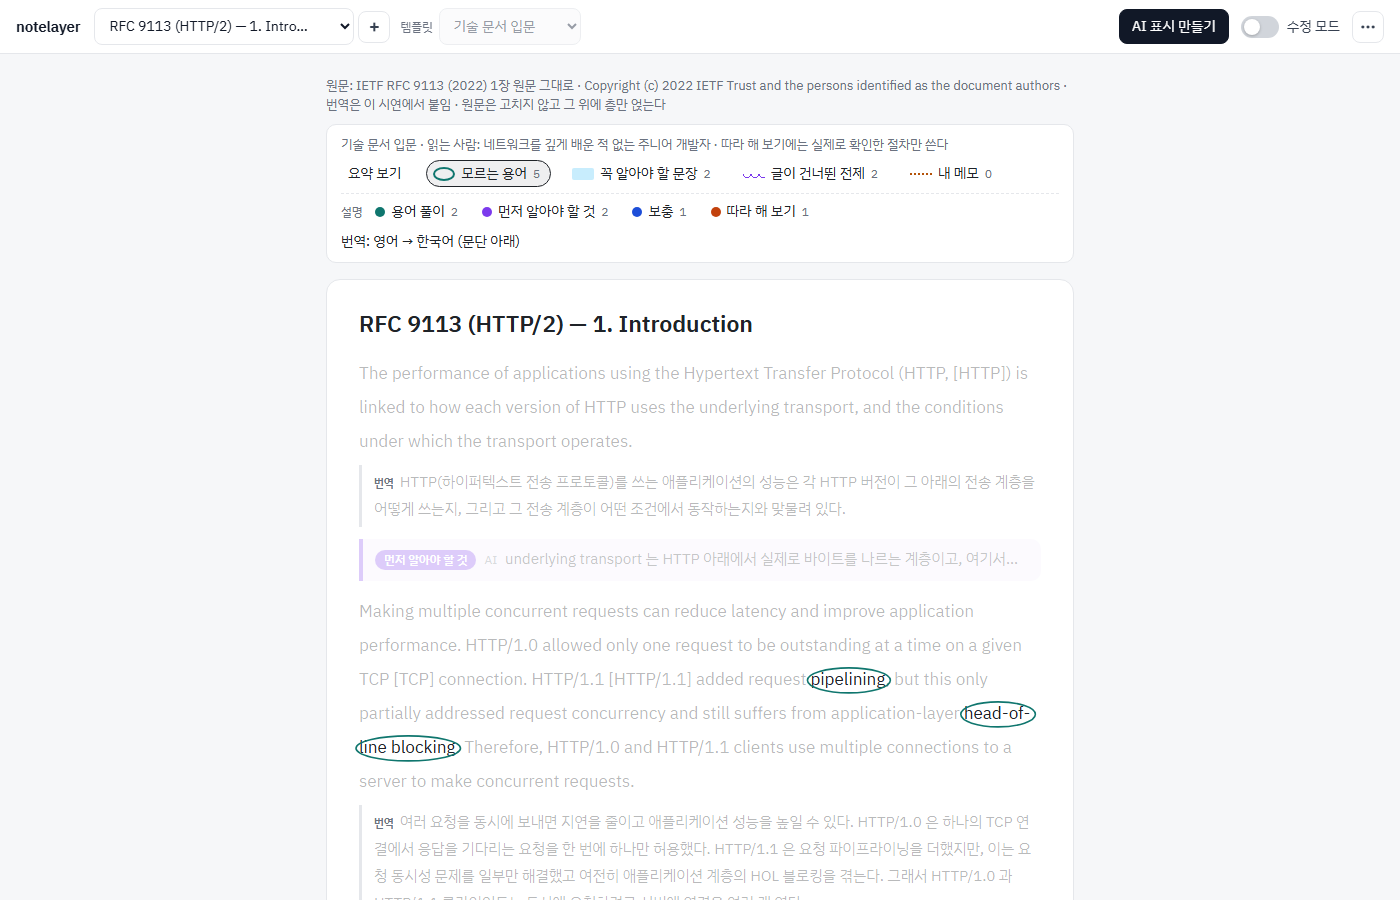
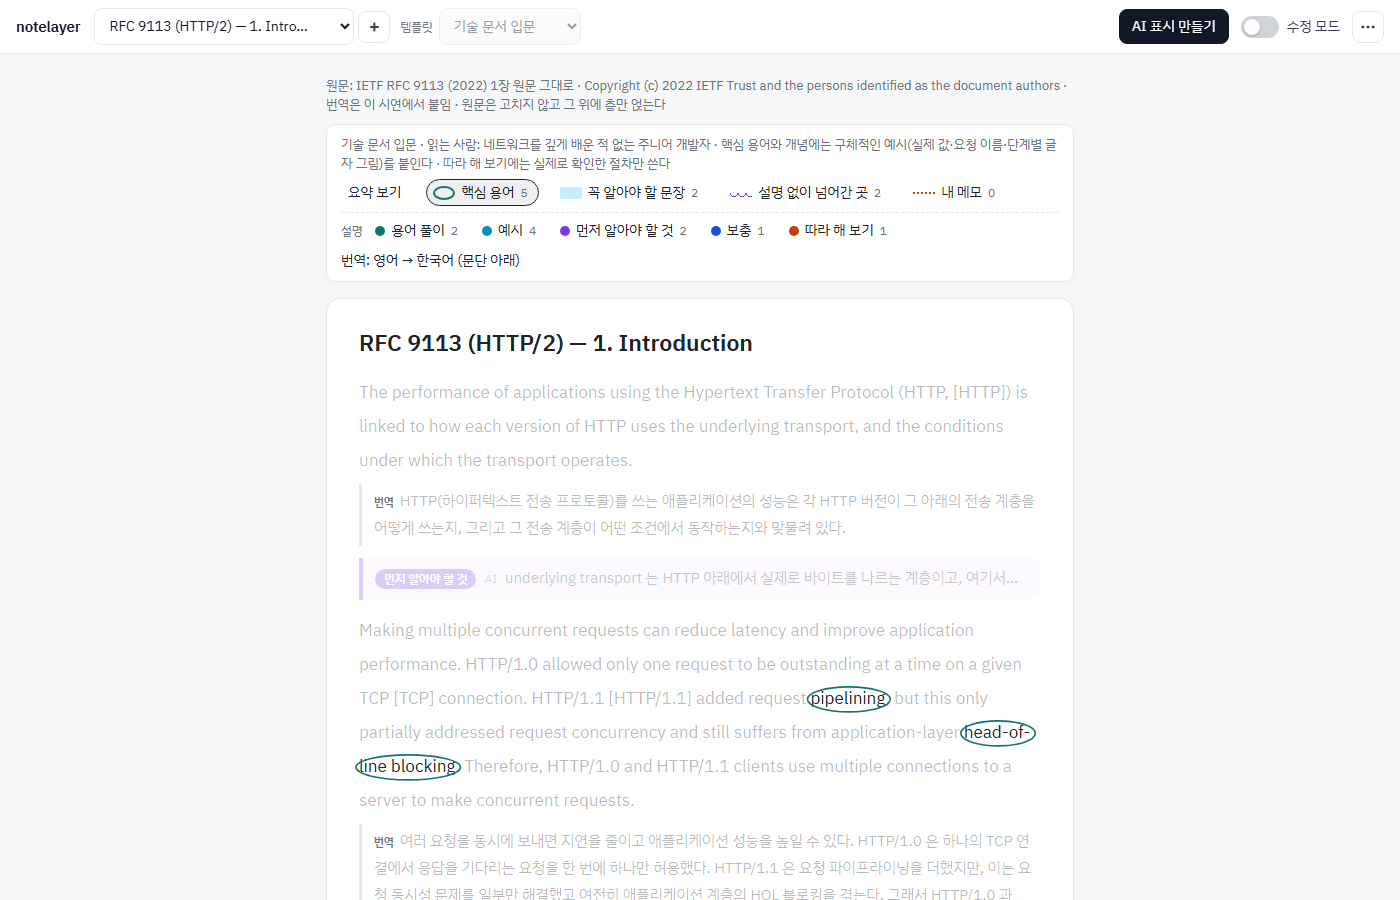
feat: 기술 문서 입문에 예시를 필수로, 표시 이름을 쉽게 바꾼다
동그라미 '모르는 용어' → '핵심 용어', 물결 '글이 건너뛴 전제' → '설명 없이 넘어간 곳'. '예시' 설명 종류와 '핵심 용어·개념에는 구체적인 예시를 붙인다' 규칙을 더하고, HTTP 비교 글(5개)·RFC 서론(4개)에 예시 상자를 넣었다. AI 요청문도 예시 상자를 반드시 달게 했다.

Changed region(s): [[0.2457, 0.3422, 0.7371, 1.0], [0.2457, 0.1556, 0.7371, 0.3111]]

diff --git a/documents/http-vs-http2.js b/documents/http-vs-http2.js
@@ -367,6 +367,12 @@ window.NL_DOCS.push({
       ],
       "boxes": [
         {
+          "p": 1,
+          "label": "예시",
+          "text": "페이지가 style.css(만드는 데 2초)와 logo.png(0.1초)를 같은 연결로 받으면, logo.png 는 style.css 가 끝날 때까지 기다린다.",
+          "pre": "0초    style.css 요청\n2초    style.css 응답 끝 → 이제 logo.png 차례\n2.1초  logo.png 응답 끝   (혼자였으면 0.1초)"
+        },
+        {
           "p": 2,
           "label": "먼저 알아야 할 것",
           "text": "연결을 여러 개 열면 왜 빨라지나: 연결 하나는 한 번에 응답 하나만 받으므로, 연결이 6개면 응답 6개를 동시에 받을 수 있다."
@@ -378,9 +384,31 @@ window.NL_DOCS.push({
           "pre": "클라이언트 ── SYN ──────▶ 서버\n클라이언트 ◀── SYN-ACK ── 서버\n클라이언트 ── ACK ──────▶ 서버   (여기까지 TCP, 이어서 TLS)"
         },
         {
+          "p": 2,
+          "label": "예시",
+          "text": "그림 30장짜리 페이지를 연결 6개로 받으면 한 번에 6장씩 다섯 번에 나눠 받는다. 연결마다 TCP·TLS 준비를 따로 하니 준비도 여섯 번 한다."
+        },
+        {
           "p": 3,
           "label": "용어 풀이",
           "text": "프레임은 HTTP/2 가 보내는 가장 작은 단위이고, 스트림은 요청 하나와 그 응답이 오가는 논리적 통로다. 클라이언트가 여는 스트림은 홀수 번호를 쓴다."
+        },
+        {
+          "p": 3,
+          "label": "예시",
+          "text": "index.html 과 app.js 를 동시에 요청하면 각각 스트림 1, 스트림 3 이 된다. 조각이 섞여 와도 번호로 다시 모은다.",
+          "pre": "연결 위 흐름: [HEADERS 1][HEADERS 3][DATA 1][DATA 3][DATA 1] …\n받는 쪽:     스트림 1 조각끼리 → index.html\n             스트림 3 조각끼리 → app.js"
+        },
+        {
+          "p": 4,
+          "label": "예시",
+          "text": "첫 요청의 긴 user-agent 헤더는 통째로 보내고 양쪽 표에 저장한다. 두 번째 요청부터는 그 표 번호만 보낸다. ':method: GET' 은 처음부터 정해진 표의 2번이라 늘 번호 하나로 간다.",
+          "pre": "요청 1: user-agent: Mozilla/5.0 (Windows NT 10.0; …)   ← 통째로, 표에 저장\n요청 2: [62]                                         ← 표 번호만"
+        },
+        {
+          "p": 5,
+          "label": "예시",
+          "text": "스트림 1·3·5 의 조각이 한 TCP 연결로 오다가 스트림 1 의 패킷 하나가 사라지면, 이미 도착한 스트림 3·5 의 데이터도 다시 받은 패킷이 올 때까지 앱에 넘어가지 않는다."
         },
         {
           "p": 5,

diff --git a/documents/rfc9113-intro.js b/documents/rfc9113-intro.js
@@ -102,9 +102,25 @@ window.NL_DOCS.push({
           "text": "head-of-line blocking(HOL 블로킹)은 줄 맨 앞이 막히면 뒤가 모두 기다리는 현상이다. pipelining 은 응답을 기다리지 않고 요청을 연달아 보내는 방식인데, 응답은 보낸 순서대로 와야 해서 앞 응답이 늦으면 뒤도 막힌다."
         },
         {
+          "p": 2,
+          "label": "예시",
+          "text": "요청 A·B·C 를 연달아 보내도(pipelining) 응답은 A → B → C 순서로만 와야 한다. A 를 만드는 데 3초 걸리면 이미 준비된 B·C 도 3초를 기다린다."
+        },
+        {
+          "p": 3,
+          "label": "예시",
+          "text": "새 TCP 연결의 초기 혼잡 윈도는 보통 약 14KB(세그먼트 10개)다. 쿠키를 포함한 헤더가 요청마다 1KB 라면 요청 몇 개만으로 이 창이 차서, 확인 응답을 기다리는 왕복이 생긴다."
+        },
+        {
           "p": 3,
           "label": "먼저 알아야 할 것",
           "text": "congestion window(혼잡 윈도)는 TCP 가 상대의 확인 응답 없이 한 번에 보낼 수 있는 데이터 양이다. 새 연결은 작게 시작해 점점 늘리므로, 연결 초반에 긴 헤더가 반복되면 그 작은 창을 헤더가 다 차지한다."
+        },
+        {
+          "p": 4,
+          "label": "예시",
+          "text": "같은 연결에서 메시지 두 개를 번갈아 끼워 보내는 모습이다.",
+          "pre": "HTTP/1.1: [메시지 A 전체] → [메시지 B 전체]\nHTTP/2  : [A 조각][B 조각][A 조각][B 조각] …  (스트림 번호로 구분)"
         },
         {
           "p": 4,
@@ -121,6 +137,11 @@ window.NL_DOCS.push({
           "label": "용어 풀이",
           "text": "HTTP/1.1 은 사람이 읽는 글자로 메시지를 주고받았지만, HTTP/2 는 길이·종류·스트림 번호가 정해진 자리에 들어간 이진 프레임으로 나눠 보낸다. 기계가 경계를 바로 알 수 있어 처리가 빠르다.",
           "pre": "프레임 머리(9바이트, 4.1절)\n길이 24비트 | 종류 8비트 | 플래그 8비트 | 예약 1비트 + 스트림 번호 31비트"
+        },
+        {
+          "p": 6,
+          "label": "예시",
+          "text": "HTTP/1.1 은 'GET /index.html HTTP/1.1' 같은 글자 줄을 줄바꿈 기준으로 읽어야 머리(헤더)가 어디서 끝나는지 안다. HTTP/2 는 9바이트 프레임 머리에서 길이를 먼저 읽고 그만큼만 잘라 낸다."
         }
       ],
       "concepts": {

diff --git a/import.js b/import.js
@@ -173,7 +173,7 @@
   // ── AI 표시 만들기: 요청문 복사 → LLM → 답 붙여 넣기 ──
   const EXTRA = {
     exam: "직접 풀어 보기는 text 에 질문, answer 에 답을 쓴다.",
-    tech: "따라 해 보기에는 실제로 되는 절차만 쓴다.",
+    tech: "핵심 용어와 개념마다 '예시' 상자를 단다(실제 값·요청 이름·단계별 글자 그림을 pre 에). 흐름은 단계 순서대로 보인다. 따라 해 보기에는 실제로 되는 절차만 쓴다.",
     contract: "법률 판단을 하지 않는다. 불리할 수 있는 조항은 '확인 필요' 까지만 쓰고, 확실한 근거 조문이 있을 때만 단다.",
     onboarding: "담당자 메모는 사람이 쓰는 칸이니 만들지 않는다.",
     review: "고친 예시(제안)는 pre 에 '고치기 전: … / 고친 예시: …' 로 쓴다.",

diff --git a/templates.js b/templates.js
@@ -25,17 +25,19 @@ window.NL_TEMPLATES = {
     "reader": "네트워크를 깊게 배운 적 없는 주니어 개발자",
     "hand": false,
     "marks": {
-      "circle": "모르는 용어",
+      "circle": "핵심 용어",
       "highlight": "꼭 알아야 할 문장",
-      "wave": "글이 건너뛴 전제"
+      "wave": "설명 없이 넘어간 곳"
     },
     "boxes": {
       "용어 풀이": "#0f766e",
+      "예시": "#0891b2",
       "먼저 알아야 할 것": "#7c3aed",
       "보충": "#1d4ed8",
       "따라 해 보기": "#c2410c"
     },
     "rules": [
+      "핵심 용어와 개념에는 구체적인 예시(실제 값·요청 이름·단계별 글자 그림)를 붙인다",
       "따라 해 보기에는 실제로 확인한 절차만 쓴다"
     ]
   },

diff --git a/prompts/annotate.md b/prompts/annotate.md
@@ -60,7 +60,7 @@ window.NL_DOCS.push({
 | id | 이름 | circle | highlight | wave | 설명 종류 (label) | 추가 규칙 |
 |---|---|---|---|---|---|---|
 | exam | 시험공부 노트 | 핵심어 | 외울 문장 | 헷갈리기 쉬운 곳 | 핵심, 그림으로, 헷갈림 주의, 직접 풀어 보기 | 직접 풀어 보기는 `text` 에 질문, `answer` 에 답 |
-| tech | 기술 문서 입문 | 모르는 용어 | 꼭 알아야 할 문장 | 글이 건너뛴 전제 | 용어 풀이, 먼저 알아야 할 것, 보충, 따라 해 보기 | 따라 해 보기는 실제로 되는 절차만 |
+| tech | 기술 문서 입문 | 핵심 용어 | 꼭 알아야 할 문장 | 설명 없이 넘어간 곳 | 용어 풀이, 예시, 먼저 알아야 할 것, 보충, 따라 해 보기 | 핵심 용어·개념마다 예시 상자 필수(실제 값·단계별 글자 그림). 따라 해 보기는 실제로 되는 절차만 |
 | contract | 계약서·약관 | 의무·금액·기한 | 꼭 읽을 조항 | 불리할 수 있어 확인이 필요한 조항 | 쉬운 말, 확인 필요, 물어볼 질문 | 법률 판단을 하지 않는다. "확인 필요" 까지만 쓰고 근거 조문을 단다 |
 | onboarding | 회사 문서 온보딩 | 사내 용어 | 꼭 지킬 절차 | 예외·주의 | 용어 풀이, 담당자 메모, 자주 하는 실수 | 담당자 메모는 사람이 쓴 것으로 두고 `"by": "이름"` 을 단다 |
 | review | 첨삭·피드백 | 살릴 강점 | 잘 쓴 문장 | 고칠 곳·근거가 약한 주장 | 지적, 고친 예시(제안), 칭찬 | 고친 예시는 `pre` 에 "고치기 전 / 고친 예시" 로 |
